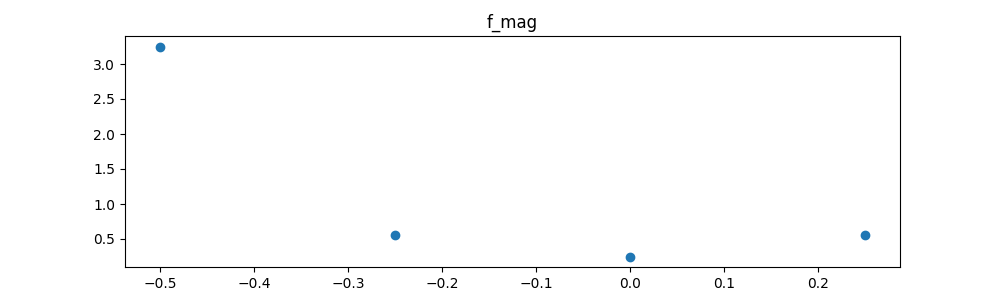
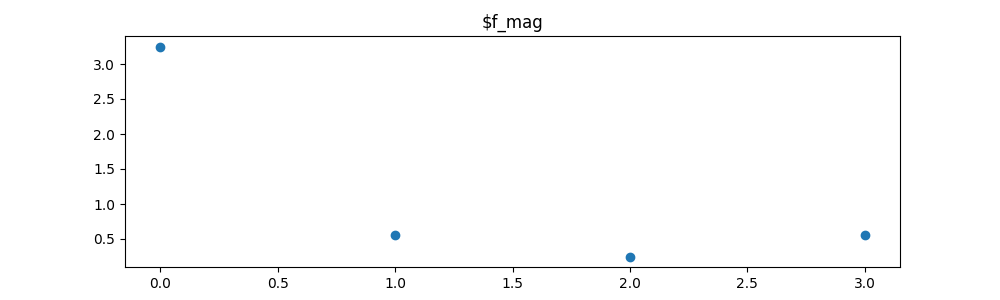
Part 1.b done. I think the values look correct now

diff --git a/experiment_1.py b/experiment_1.py
@@ -1,14 +1,27 @@
 import numpy as np
 import matplotlib.pyplot as plt
 import math
-from helpers import magnitude, phase, center_spectrum
+from helpers import magnitude, phase, center_spectrum, create_figure
 
 outfile_path = "Experiment_1"
 #Part 1.a
-f = [2, 3, 4, 4] 
+f = np.array([2, 3, 4, 4]) 
+f_x_values = np.array([0, 1, 2, 3])
+
+# f = center_spectrum(f)
+# print(f"f centered: {f}")
 
 f_transformed = np.fft.fft(f, norm='forward')
 f_reverse_transform = np.fft.ifft(f_transformed, norm='forward')
+print(f"f transformed: {f_transformed}\n")
+
+f_mag = magnitude(f_transformed)
+f_phase = phase(f_transformed)
+
+print(f"f mag: {f_mag}\n")
+print(f"f phase: {f_phase}\n")
+
+create_figure('$f_mag', f_x_values, f_mag, outfile_path, True)
 
 #Part 1.b
 cos_sample_size = 128
@@ -20,112 +33,92 @@ period = (2*math.pi)/(2*math.pi*u) # = 1/u, period is x distance required to com
 max_x = period*cycles
 
 #calculate sample points within interval
-sample_points = np.linspace(0, max_x, 128)
-
+sample_points = np.linspace(0, max_x, 128, endpoint=False)
+print(len(sample_points))
 #sample cos function
 cos_samples = []
 for x in sample_points:
-    cos_samples.append((math.cos(2*math.pi*u*x))*(-1**x))#multiply by (-1^x) to center fourier transform
+    cos_samples.append((math.cos(2*math.pi*u*x)))
 
 cos_samples = np.array(cos_samples)
 
-#plot figure
-plt.figure(figsize=(10, 3))
-plt.plot(sample_points, cos_samples, 'o')
-plt.title("Sampled Cosine")
-plt.savefig(f"{outfile_path}\Sampled_Cosine.png")
+#compute DFT of cos function using f[x](-1)^x
+cos_samples = center_spectrum(cos_samples)
 
-#compute DFT of cos function
 cos_dft = np.fft.fft(cos_samples, norm='forward')
-u_sample_step = 1/(cos_samples[1]-cos_samples[0])
-cos_dft_freq = np.fft.fftfreq(cos_dft.size, d=u_sample_step)
 
-#plot real
-plt.figure(figsize=(10, 3))
-plt.plot(cos_dft_freq, cos_dft.real)
-plt.title("Cosine DFT Real")
-plt.savefig(f"{outfile_path}\Cosine_DFT_Real.png")
-
-#plot imaginary
-plt.figure(figsize=(10, 3))
-plt.plot(cos_dft_freq, cos_dft.imag)
-plt.title("Cosine DFT Imaginary")
-plt.savefig(f"{outfile_path}\Cosine_DFT_Imaginary.png")
+# u_sample_step = 1/(sample_points[1]-sample_points[0])
+cos_dft_freq = np.fft.fftfreq(cos_dft.size)
 
 #calculate magnitude and phase of cos dft
-cos_mag = []
-cos_phase = []
+cos_mag = magnitude(cos_dft)
+cos_phase = phase(cos_dft)
 
-for real, imag in zip(cos_dft.real, cos_dft.imag):
-    mag = math.sqrt(real**2+imag**2)
-    phase = math.atan(imag/real)
+#plot cosine samples
+create_figure('Sampled_Cosine', sample_points, cos_samples, outfile_path, True)
 
-    cos_mag.append(mag)
-    cos_phase.append(phase)
+#plot real
+create_figure('Cosine_DFT_Real', cos_dft_freq, cos_dft.real, outfile_path, False)
 
-#plot mag
-plt.figure(figsize=(10, 3))
-plt.plot(cos_dft_freq, cos_mag)
-plt.title("Magnitude of Cosine DFT")
-plt.savefig(f"{outfile_path}\Cosine_DFT_Mag.png")
-
-#plot phase
-plt.figure(figsize=(10, 3))
-plt.plot(cos_dft_freq, cos_phase)
-plt.title("Phase of Cosine DFT")
-plt.savefig(f"{outfile_path}\Cosine_DFT_Phase.png")
-
-
-#Part 1.c
-with open("Rect_128.txt") as file:
-    rect_values = file.readlines()
-    rect_values = [float(value.strip()) for value in rect_values]
-    rect_values = [(-1**value)*value for value in rect_values]#center fourier transform
-
-#calculate x-values
-#rectangle centered on x = 0
-rect_x_values = list(range(-len(rect_values)//2, len(rect_values)//2))
-
-#plot rectangle
-plt.figure(figsize=(10, 3))
-plt.plot(rect_x_values, rect_values, 'o')
-plt.title("Rectangle")
-plt.savefig(f"{outfile_path}\Rectangle.png")
-
-#compute dft of rectangle
-rect_dft = np.fft.fft(rect_values, norm='forward')
-
-#plot rect dft real
-plt.figure(figsize=(10, 3))
-plt.plot(rect_x_values, rect_dft.real)
-plt.title("Rectangle DFT Real")
-plt.savefig(f"{outfile_path}\Rectangle_DFT_Real.png")
-
-#plot rect dft imag
-plt.figure(figsize=(10, 3))
-plt.plot(rect_x_values, rect_dft.imag)
-plt.title("Rectangle DFT Imaginary")
-plt.savefig(f"{outfile_path}\Rectangle_DFT_Imag.png")
-
-#calculate magnitude and phase of rectangle dft
-rect_mag = []
-rect_phase = []
-
-for real, imag in zip(rect_dft.real, rect_dft.imag):
-    mag = math.sqrt(real**2+imag**2)
-    phase = math.atan(imag/real)
-
-    rect_mag.append(mag)
-    rect_phase.append(phase)
+#plot imaginary
+create_figure('Cosine_DFT_Imaginary', cos_dft_freq, cos_dft.imag, outfile_path, False)
 
 #plot mag
-plt.figure(figsize=(10, 3))
-plt.plot(rect_x_values, rect_mag)
-plt.title("Magnitude of Rectangle DFT")
-plt.savefig(f"{outfile_path}\Rectangle_DFT_Mag.png")
+create_figure('Cosine_DFT_Mag', cos_dft_freq, cos_mag, outfile_path, False)
 
 #plot phase
-plt.figure(figsize=(10, 3))
-plt.plot(rect_x_values, rect_phase)
-plt.title("Phase of Rectangle DFT")
-plt.savefig(f"{outfile_path}\Rectangle_DFT_Phase.png")
+create_figure('Cosine_DFT_Phase', cos_dft_freq, cos_phase, outfile_path, False)
+
+# #Part 1.c
+# with open("Rect_128.txt") as file:
+#     rect_values = file.readlines()
+#     rect_values = [float(value.strip()) for value in rect_values]
+#     rect_values = [(-1**value)*value for value in rect_values]#center fourier transform
+
+# #calculate x-values
+# #rectangle centered on x = 0
+# rect_x_values = list(range(-len(rect_values)//2, len(rect_values)//2))
+
+# #plot rectangle
+# plt.figure(figsize=(10, 3))
+# plt.plot(rect_x_values, rect_values, 'o')
+# plt.title("Rectangle")
+# plt.savefig(f"{outfile_path}\Rectangle.png")
+
+# #compute dft of rectangle
+# rect_dft = np.fft.fft(rect_values, norm='forward')
+
+# #plot rect dft real
+# plt.figure(figsize=(10, 3))
+# plt.plot(rect_x_values, rect_dft.real)
+# plt.title("Rectangle DFT Real")
+# plt.savefig(f"{outfile_path}\Rectangle_DFT_Real.png")
+
+# #plot rect dft imag
+# plt.figure(figsize=(10, 3))
+# plt.plot(rect_x_values, rect_dft.imag)
+# plt.title("Rectangle DFT Imaginary")
+# plt.savefig(f"{outfile_path}\Rectangle_DFT_Imag.png")
+
+# #calculate magnitude and phase of rectangle dft
+# rect_mag = []
+# rect_phase = []
+
+# for real, imag in zip(rect_dft.real, rect_dft.imag):
+#     mag = math.sqrt(real**2+imag**2)
+#     phase = math.atan(imag/real)
+
+#     rect_mag.append(mag)
+#     rect_phase.append(phase)
+
+# #plot mag
+# plt.figure(figsize=(10, 3))
+# plt.plot(rect_x_values, rect_mag)
+# plt.title("Magnitude of Rectangle DFT")
+# plt.savefig(f"{outfile_path}\Rectangle_DFT_Mag.png")
+
+# #plot phase
+# plt.figure(figsize=(10, 3))
+# plt.plot(rect_x_values, rect_phase)
+# plt.title("Phase of Rectangle DFT")
+# plt.savefig(f"{outfile_path}\Rectangle_DFT_Phase.png")

diff --git a/helpers.py b/helpers.py
@@ -1,21 +1,35 @@
 import math
 import numpy as np
+import matplotlib.pyplot as plt
 
-def magnitude(dft):
+def magnitude(dft: np.ndarray):
     mag_list = []
-    for real, imag in zip(dft.real, dft.imag):
+    for x in range(dft.size):
+        real = dft[x].real
+        imag = dft[x].imag
         mag = math.sqrt(real**2+imag**2)
         mag_list.append(mag)
 
-    return mag_list
+    return np.array(mag_list)
 
-def phase(dft):
+def phase(dft: np.ndarray):
     phase_list = []
-    for real, imag in zip(dft.real, dft.imag):
-        phase = math.atan(imag/real)
+    for x in range(dft.size):
+        real = dft[x].real
+        imag = dft[x].imag
+        phase = math.atan2(imag, real)
         phase_list.append(phase)
 
-    return phase_list
+    return np.array(phase_list)
+
+
+# def phase(dft):
+#     phase_list = []
+#     for real, imag in zip(dft.real, dft.imag):
+#         phase = math.atan(imag/real)
+#         phase_list.append(phase)
+
+#     return phase_list
 
 def center_spectrum(signal: np.ndarray):
     centered_signal = np.empty_like(signal)
@@ -23,3 +37,15 @@ def center_spectrum(signal: np.ndarray):
         centered_signal[x] = ((-1)**x)*signal[x]
 
     return centered_signal
+
+def create_figure(name: str, x: np.ndarray, y: np.ndarray, outfile_path: str, o: bool):
+    if o:
+        plt.figure(figsize=(10, 3))
+        plt.plot(x, y, 'o')
+        plt.title(name)
+        plt.savefig(f"{outfile_path}\{name}.png")
+    else:
+        plt.figure(figsize=(10, 3))
+        plt.plot(x, y)
+        plt.title(name)
+        plt.savefig(f"{outfile_path}\{name}.png")
